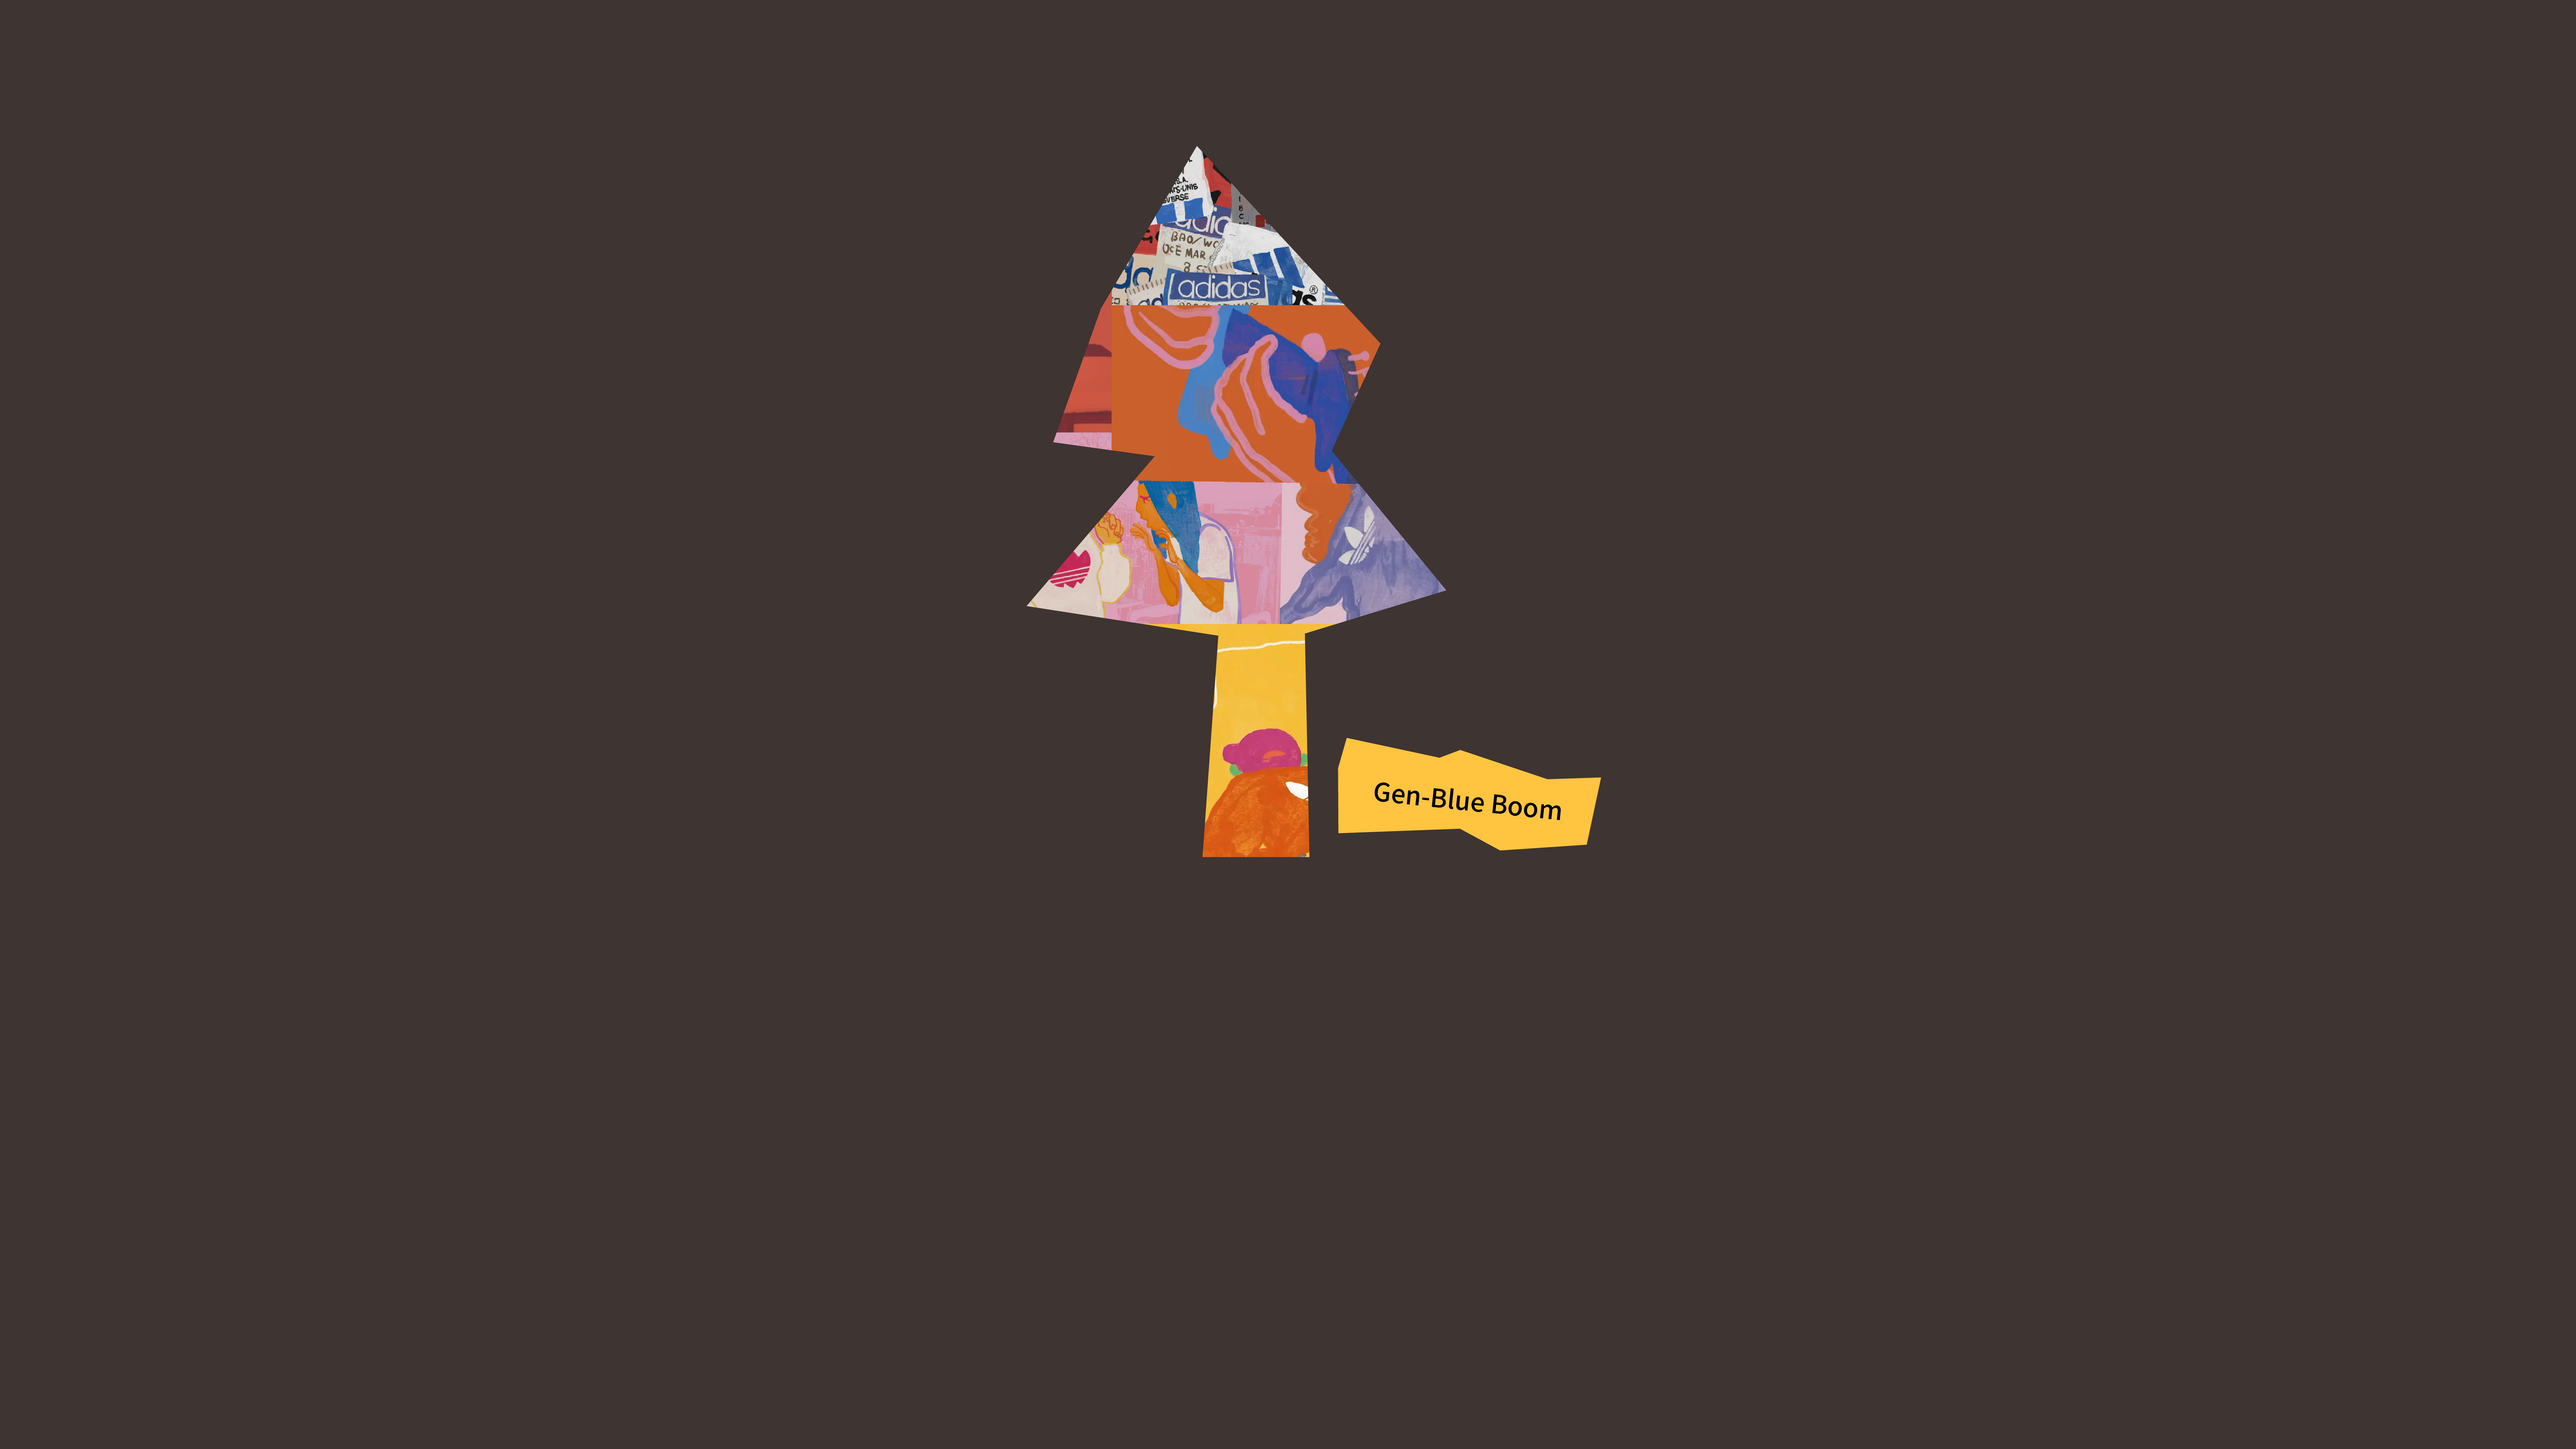
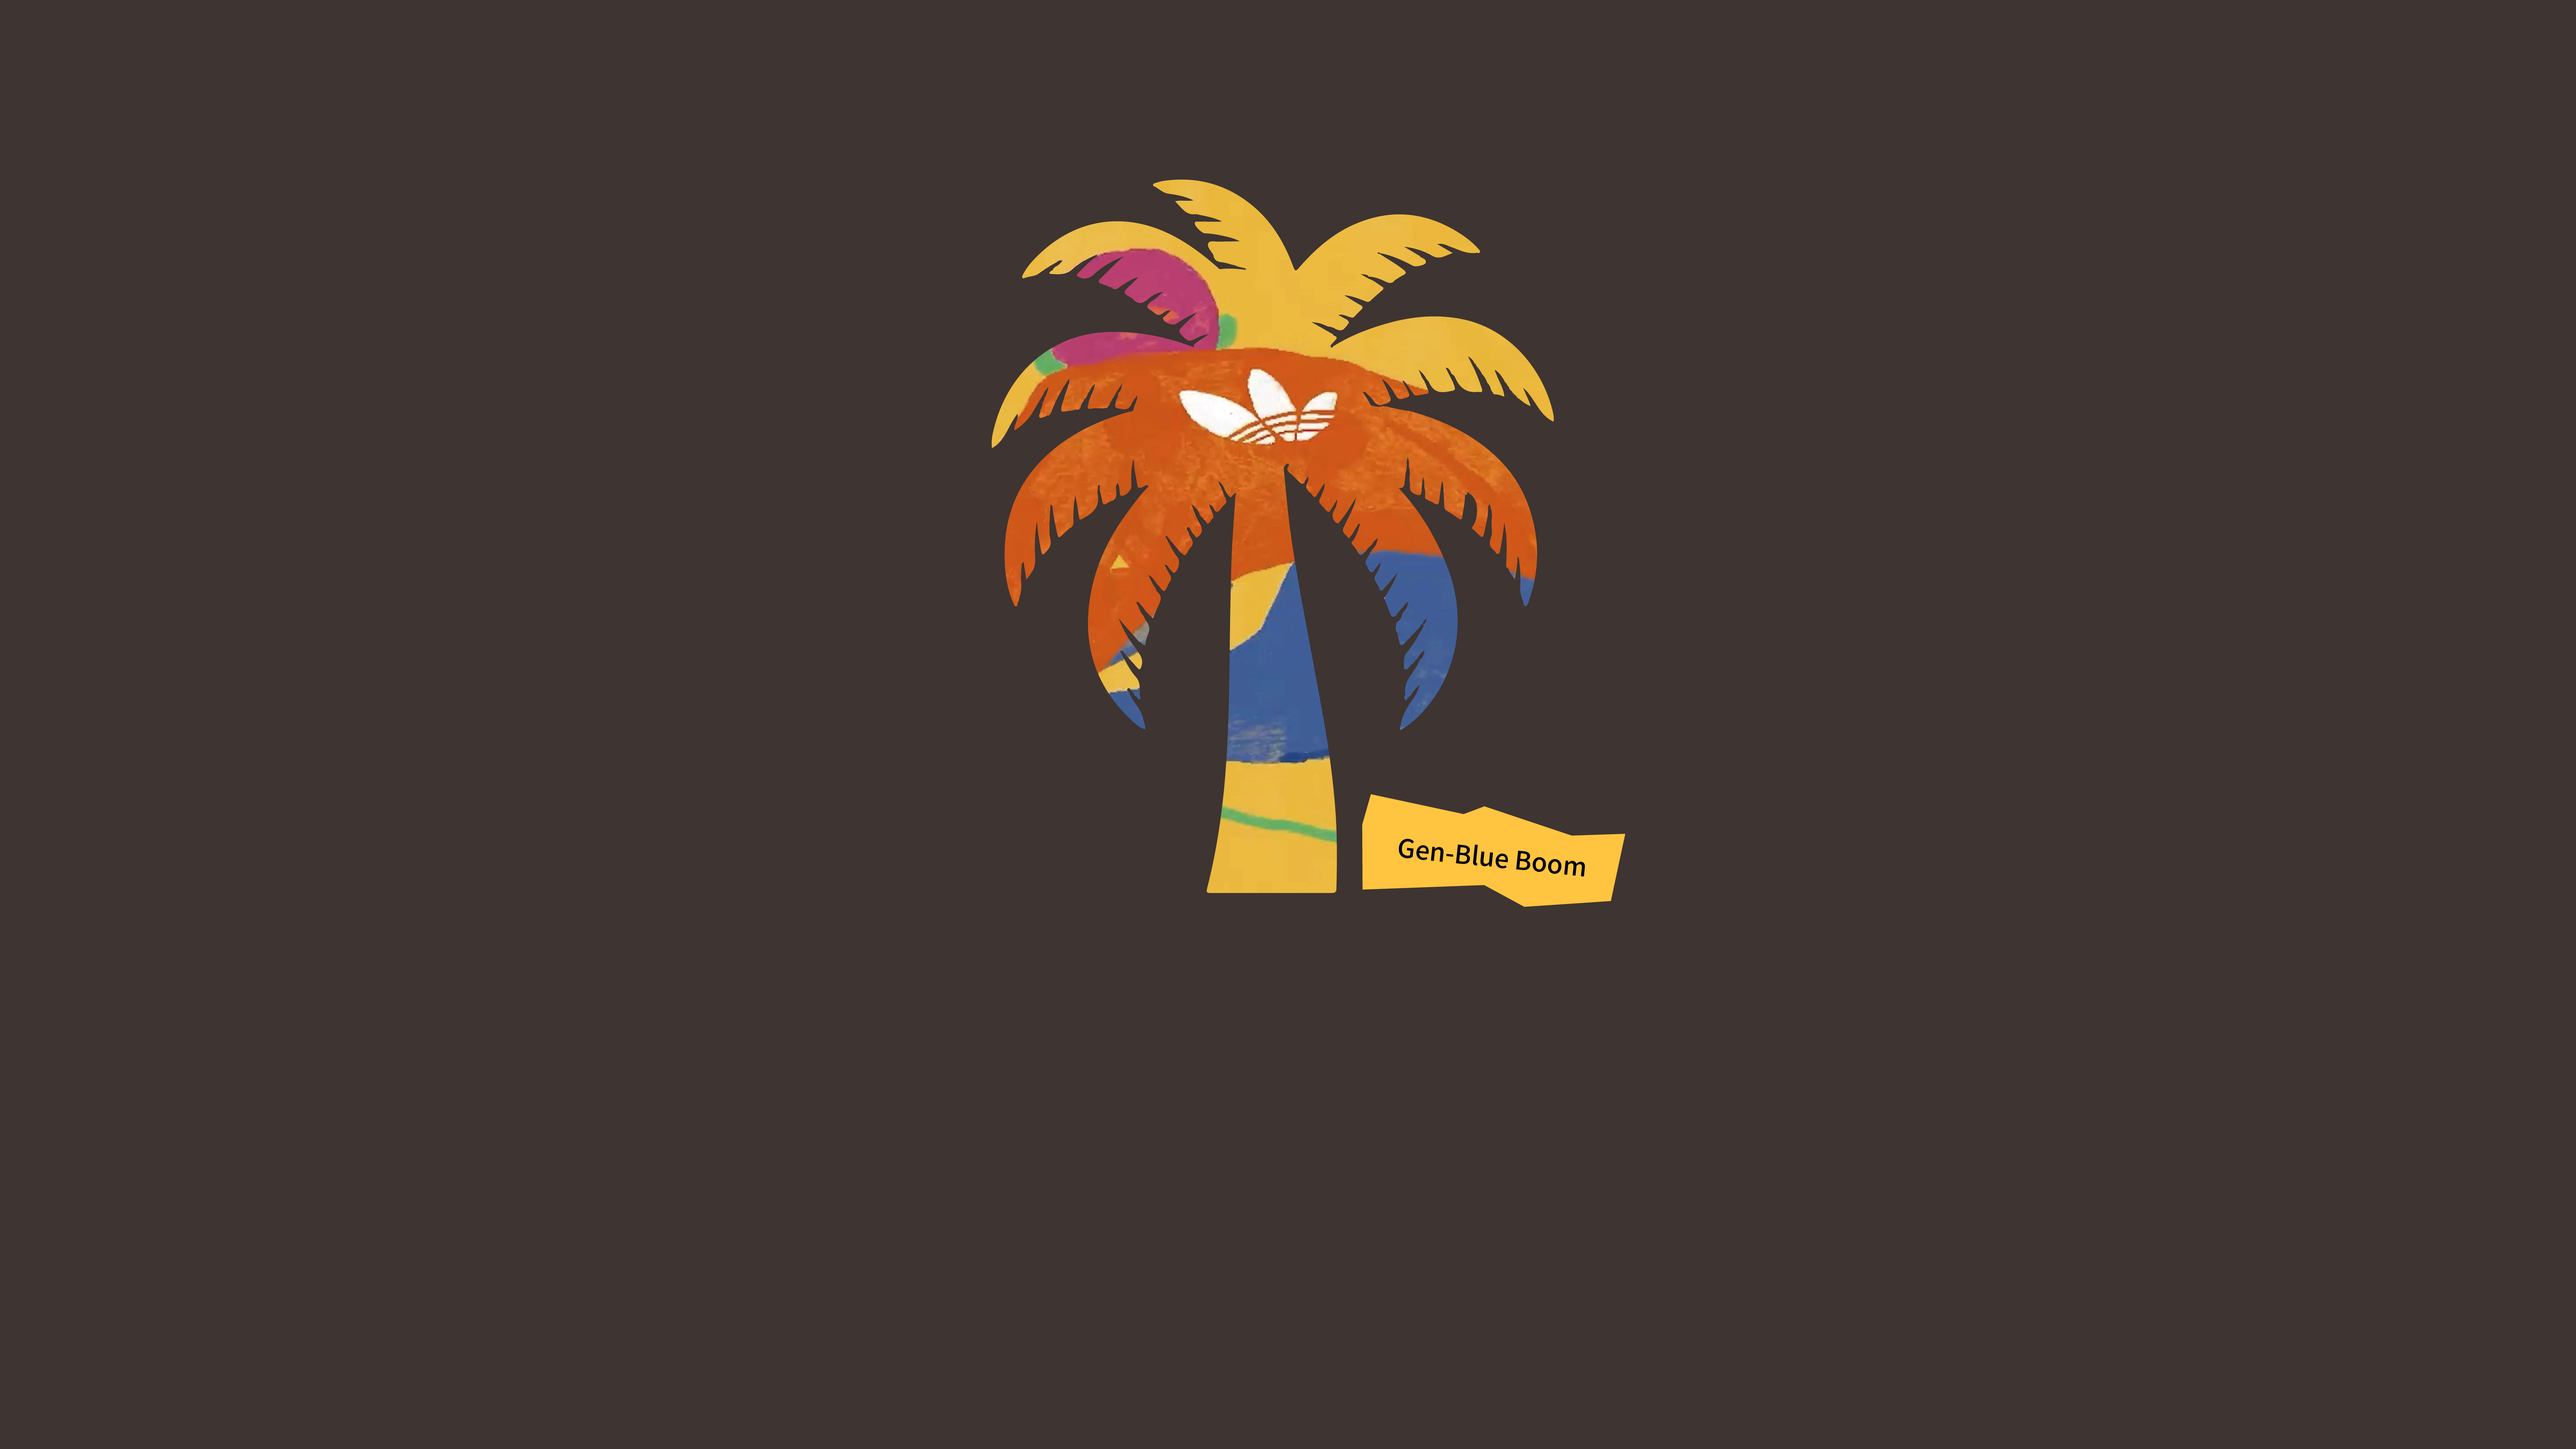
change0616

Changed region(s): [[0.375, 0.0933, 0.625, 0.6222]]

diff --git a/index.html b/index.html
@@ -20,9 +20,9 @@
   </script>
 </head>
 <body>
-  <img src="image/最新封面_画板 1.jpg" usemap="#fengmian">
+  <img src="image/fengmian.jpg" usemap="#fengmian">
   <map name="fengmian">
-    <area alt="Spark" title="spark"  coords="6022,1683,5421,2333,5697,2714,5273,3270,5810,3446,5789,4280,6199,4273,6163,3453,6856,3340,6382,2789,6658,2683,6503,2203" shape="poly"
+    <area alt="Spark" title="spark"  coords="3013,821,2706,1150,2851,1341,2639,1620,2907,1705,2900,2132,3109,2132,3077,1712,3430,1652,3193,1369,3335,1327,3250,1072" shape="poly"
     onmouseover="document.getElementById('image-spark').style.display = 'block';"
     onmouseout="document.getElementById('image-spark').style.display = 'none';">
     <area target="" alt="photo" title="photo"  coords="6493,2183,6613,2099,6677,1823,6762,1781,6910,1767,7073,1675,7165,1646,7228,1696,7313,1724,7532,1767,7638,1880,7681,2049,7857,2226,7822,2487,7836,2728,7836,2954,7730,3102,7454,3067,7228,3024,7193,3279,7207,3590,7214,3674,6861,3639,6762,3646,6839,2961,6705,3024,6606,3031,6493,2911,6415,2770,6663,2685" shape="poly"
@@ -43,7 +43,7 @@
       <area target="" alt="simi" title="simi" href="simi" coords="5447,269,5150,707,4896,1222,4938,1759,5313,2162,5327,2544,5560,2558,5405,2353,5928,1752,5942,1138,5737,693" shape="poly"
       onmouseover="document.getElementById('image-simi').style.display = 'block';"
       onmouseout="document.getElementById('image-simi').style.display = 'none';">
-      <area target="" alt="boom" title="boom" href="boom" coords="3708,438,4274,1074,4132,1399,4479,1816,4055,1957,4062,2629,3737,2643,3779,1950,3595,1936,3539,1625,3468,1540,3581,1399,3298,1336,3411,905" shape="poly"
+      <area target="" alt="boom" title="boom" href="boom" coords="1777,285,1926,281,2007,412,2137,327,2318,377,2152,440,2060,536,2229,490,2349,525,2420,652,2258,606,2113,624,2282,674,2392,797,2374,939,2261,797,2169,755,2254,903,2176,1119,2134,889,1993,730,2039,1020,2088,1387,1869,1380,1908,1105,1919,769,1809,907,1760,780,1788,751,1731,748,1654,670,1756,628,1611,628,1555,610,1703,507,1855,536,1774,465,1583,419,1710,313,1890,408" shape="poly"
       onmouseover="document.getElementById('image-boom').style.display = 'block';"
       onmouseout="document.getElementById('image-boom').style.display = 'none';">
       <area target="" alt="pet" title="pet" href="pet" coords="6719,184,6804,269,6854,516,6825,678,7016,685,7165,756,7193,975,7073,1131,7257,1201,7370,1336,7292,1555,6938,1717,6740,1675,6755,1766,6634,1816,6493,2169,6500,1682,6189,1710,6012,1590,5977,1222,6210,1152,6076,989,6055,777,6281,693,6465,714,6387,551,6394,346,6479,212,6606,148" shape="poly"
